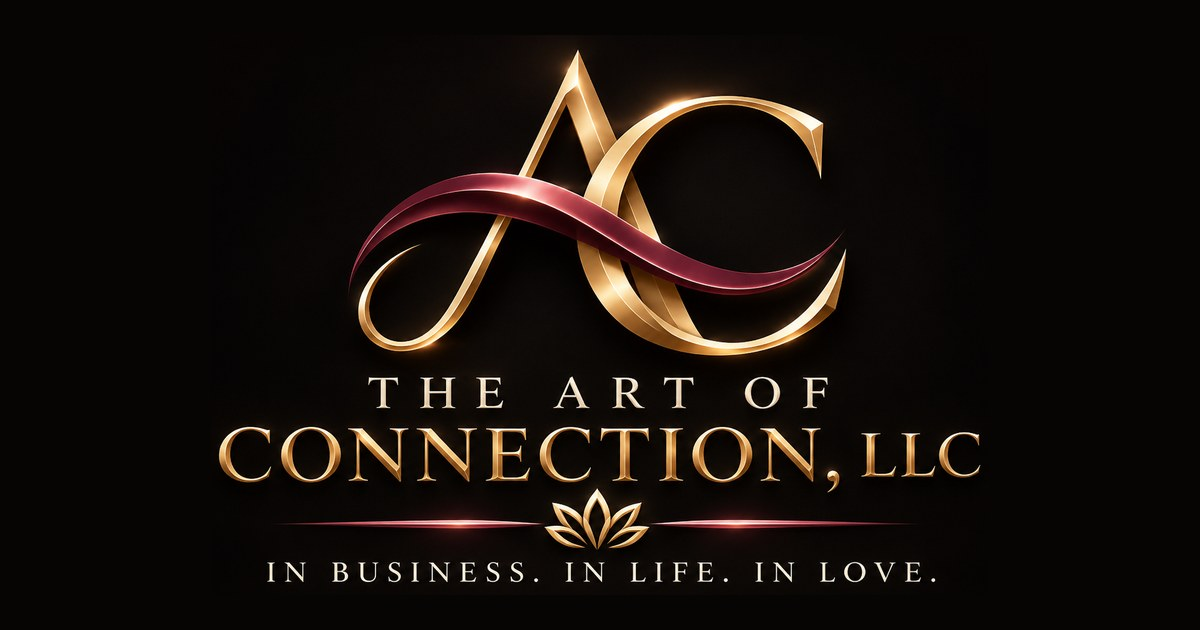
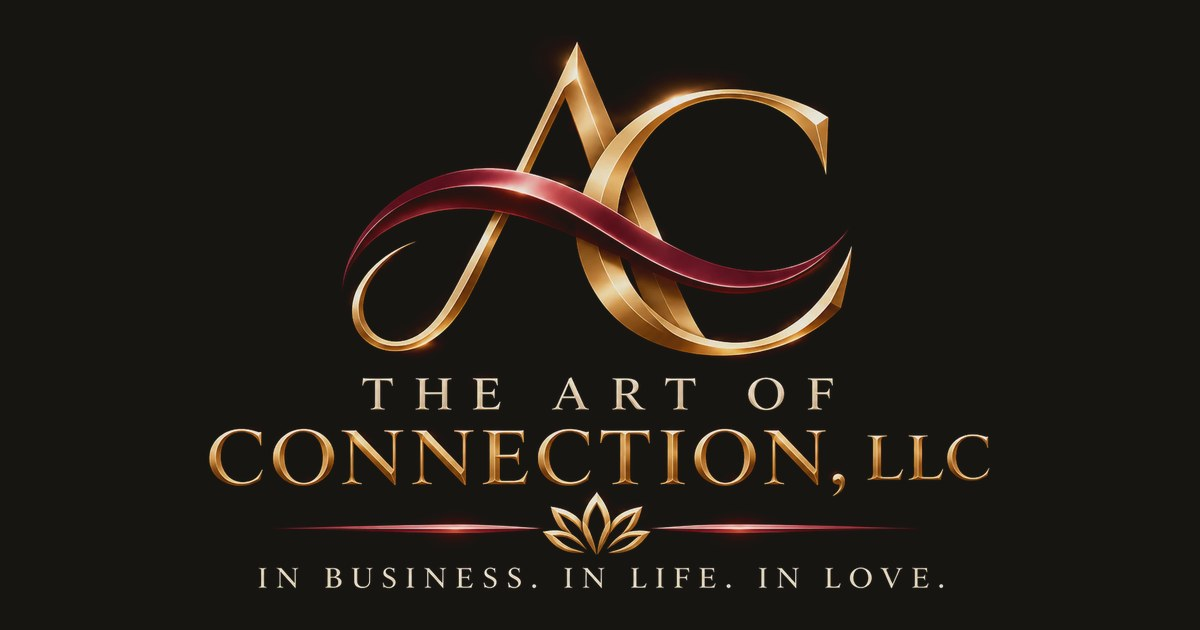
Adopt signature brand palette
Onyx #171512, Champagne Gold #C9AD83, Ivory #F5EFE6, Bronze #725B3D,
Burgundy #743F4D defined once as design tokens and applied site-wide.
Experience accents are tints of the brand colors; green/red kept only as
status indicators. Icons and share image regenerated on Onyx. Adds docs/BRAND.md.

Claude-Session: https://claude.ai/code/session_01PcrZVFZRzqjjvRtsNnLpaT

Changed region(s): [[0.1542, 0.0603, 0.8325, 0.9349]]

diff --git a/src/app/globals.css b/src/app/globals.css
@@ -1,27 +1,46 @@
 @import "tailwindcss";
 
-/* ── The Art of Connect · design tokens ─────────────────────────────
-   Obsidian & champagne. One accent per experience:
-   Relationships = rose, Business = sapphire, Counseling = jade.     */
+/* ── The Art of Connect · signature business colors ──────────────
+   Onyx #171512 · Champagne Gold #C9AD83 · Ivory #F5EFE6
+   Bronze #725B3D · Burgundy #743F4D
+   Experience accents are light tints of the brand colors so they stay
+   readable on Onyx: Relationships = Burgundy, Business = Champagne Gold,
+   Counseling = Ivory.                                                  */
 :root {
-  --ink: #07070b;
-  --ink-2: #0d0d14;
-  --ink-3: #151521;
-  --line: rgb(255 255 255 / 0.08);
-  --line-strong: rgb(255 255 255 / 0.16);
-  --text: #f4f1ea;
-  --text-muted: rgb(244 241 234 / 0.64);
-  --text-faint: rgb(244 241 234 / 0.42);
-  --gold: #d8c29d;
-  --gold-bright: #f0dfbd;
-  --gold-deep: #a88b5c;
-  --wine: #8f2742;
-  --wine-bright: #c4506d;
-  --rose: #e693a5;
-  --sapphire: #8fb0ff;
-  --jade: #8ad1b8;
-  --danger: #ff8a8a;
-  --success: #8ad1b8;
+  /* Brand colors (exact) */
+  --onyx: #171512;
+  --champagne: #c9ad83;
+  --ivory: #f5efe6;
+  --bronze: #725b3d;
+  --burgundy: #743f4d;
+
+  /* Surfaces & text */
+  --ink: var(--onyx);
+  --ink-2: #1e1b17;
+  --ink-3: #27231e;
+  --line: rgb(245 239 230 / 0.09);
+  --line-strong: rgb(245 239 230 / 0.17);
+  --text: var(--ivory);
+  --text-muted: rgb(245 239 230 / 0.68);
+  --text-faint: rgb(245 239 230 / 0.46);
+
+  /* Gold family */
+  --gold: var(--champagne);
+  --gold-bright: #e4d2b4;
+  --gold-deep: var(--bronze);
+
+  /* Burgundy family */
+  --wine: var(--burgundy);
+  --wine-bright: #a5606f;
+
+  /* Experience accents */
+  --relationships: #c98f9d;
+  --business: var(--champagne);
+  --counseling: var(--ivory);
+
+  /* Functional status colors (not brand colors) */
+  --success: #a9c3a0;
+  --danger: #e39494;
   --radius: 22px;
   color-scheme: dark;
 }
@@ -40,9 +59,15 @@
   --color-gold-deep: var(--gold-deep);
   --color-wine: var(--wine);
   --color-wine-bright: var(--wine-bright);
-  --color-rose: var(--rose);
-  --color-sapphire: var(--sapphire);
-  --color-jade: var(--jade);
+  --color-onyx: var(--onyx);
+  --color-champagne: var(--champagne);
+  --color-ivory: var(--ivory);
+  --color-bronze: var(--bronze);
+  --color-burgundy: var(--burgundy);
+  --color-relationships: var(--relationships);
+  --color-business: var(--business);
+  --color-counseling: var(--counseling);
+  --color-success: var(--success);
   --color-danger: var(--danger);
   --font-display: "Cormorant Garamond Variable", "Cormorant Garamond", ui-serif, Georgia, serif;
   --font-sans: "Manrope Variable", "Manrope", ui-sans-serif, system-ui, sans-serif;
@@ -64,7 +89,7 @@ body {
   overflow-x: hidden;
 }
 
-::selection { background: rgb(216 194 157 / 0.32); color: var(--text); }
+::selection { background: rgb(201 173 131 / 0.32); color: var(--text); }
 
 :focus-visible { outline: 2px solid var(--gold); outline-offset: 3px; border-radius: 6px; }
 
@@ -104,7 +129,7 @@ body {
   inset: 0;
   border-radius: inherit;
   padding: 1px;
-  background: linear-gradient(140deg, rgb(240 223 189 / 0.5), transparent 35%, transparent 65%, rgb(240 223 189 / 0.22));
+  background: linear-gradient(140deg, rgb(228 210 180 / 0.5), transparent 35%, transparent 65%, rgb(228 210 180 / 0.22));
   -webkit-mask: linear-gradient(#000 0 0) content-box, linear-gradient(#000 0 0);
   -webkit-mask-composite: xor;
   mask-composite: exclude;
@@ -112,7 +137,7 @@ body {
 }
 
 /* Burgundy light-line from the logo */
-.ribbon-line { background: linear-gradient(90deg, transparent, var(--wine) 40%, var(--wine-bright) 85%, rgb(255 190 200 / 0.9)); box-shadow: 0 0 12px rgb(196 80 109 / 0.5); }
+.ribbon-line { background: linear-gradient(90deg, transparent, var(--wine) 40%, var(--wine-bright) 85%, rgb(228 190 198 / 0.9)); box-shadow: 0 0 12px rgb(165 96 111 / 0.5); }
 
 .hairline { height: 1px; background: linear-gradient(90deg, transparent, var(--line-strong), transparent); }
 
@@ -124,10 +149,10 @@ body {
   z-index: -1;
   pointer-events: none;
   background:
-    radial-gradient(40% 35% at 18% 18%, rgb(143 39 66 / 0.22), transparent 70%),
-    radial-gradient(38% 34% at 82% 12%, rgb(143 176 255 / 0.14), transparent 70%),
-    radial-gradient(45% 40% at 55% 62%, rgb(138 209 184 / 0.09), transparent 72%),
-    radial-gradient(60% 50% at 50% 0%, rgb(216 194 157 / 0.08), transparent 70%);
+    radial-gradient(40% 35% at 18% 18%, rgb(116 63 77 / 0.34), transparent 70%),
+    radial-gradient(38% 34% at 82% 12%, rgb(114 91 61 / 0.30), transparent 70%),
+    radial-gradient(45% 40% at 55% 62%, rgb(116 63 77 / 0.14), transparent 72%),
+    radial-gradient(60% 50% at 50% 0%, rgb(201 173 131 / 0.08), transparent 70%);
   filter: blur(10px);
   animation: drift 26s ease-in-out infinite alternate;
 }
@@ -157,13 +182,13 @@ body {
 }
 .btn:active { transform: scale(0.98); }
 .btn-gold {
-  color: #1a140a;
+  color: var(--onyx);
   background: linear-gradient(120deg, var(--gold-bright), var(--gold) 55%, var(--gold-deep));
-  box-shadow: 0 10px 40px -12px rgb(216 194 157 / 0.55), inset 0 1px 0 rgb(255 255 255 / 0.5);
+  box-shadow: 0 10px 40px -12px rgb(201 173 131 / 0.55), inset 0 1px 0 rgb(255 255 255 / 0.5);
 }
-.btn-gold:hover { box-shadow: 0 14px 50px -10px rgb(216 194 157 / 0.75), inset 0 1px 0 rgb(255 255 255 / 0.6); transform: translateY(-1px); }
+.btn-gold:hover { box-shadow: 0 14px 50px -10px rgb(201 173 131 / 0.75), inset 0 1px 0 rgb(255 255 255 / 0.6); transform: translateY(-1px); }
 .btn-ghost { color: var(--text); border: 1px solid var(--line-strong); background: rgb(255 255 255 / 0.03); }
-.btn-ghost:hover { border-color: rgb(216 194 157 / 0.5); background: rgb(255 255 255 / 0.06); }
+.btn-ghost:hover { border-color: rgb(201 173 131 / 0.5); background: rgb(255 255 255 / 0.06); }
 .btn-sm { min-height: 38px; padding: 0 1rem; font-size: 0.78rem; }
 .btn[disabled] { opacity: 0.45; pointer-events: none; }
 
@@ -196,9 +221,9 @@ select.field { appearance: none; }
   border: 1px solid var(--line-strong);
   color: var(--text-muted);
 }
-.chip-live { color: var(--success); border-color: rgb(138 209 184 / 0.4); }
-.chip-locked { color: var(--gold); border-color: rgb(216 194 157 / 0.35); }
-.chip-danger { color: var(--danger); border-color: rgb(255 138 138 / 0.35); }
+.chip-live { color: var(--success); border-color: rgb(169 195 160 / 0.4); }
+.chip-locked { color: var(--gold); border-color: rgb(201 173 131 / 0.35); }
+.chip-danger { color: var(--danger); border-color: rgb(227 148 148 / 0.35); }
 
 /* ── Tables (owner portal) ──────────────────────────────────────── */
 .data-table { width: 100%; border-collapse: collapse; font-size: 0.85rem; }

diff --git a/src/components/Constellation.tsx b/src/components/Constellation.tsx
@@ -14,20 +14,20 @@ export function Constellation({ className = "" }: { className?: string }) {
   return (
     <svg viewBox="0 0 600 600" className={className} fill="none" aria-hidden="true">
       <defs>
-        <linearGradient id="o-rose" x1="0" x2="1"><stop stopColor="#c4506d" stopOpacity="0.05" /><stop offset="0.5" stopColor="#c4506d" stopOpacity="0.9" /><stop offset="1" stopColor="#c4506d" stopOpacity="0.05" /></linearGradient>
-        <linearGradient id="o-sapphire" x1="0" x2="1"><stop stopColor="#8fb0ff" stopOpacity="0.05" /><stop offset="0.5" stopColor="#8fb0ff" stopOpacity="0.9" /><stop offset="1" stopColor="#8fb0ff" stopOpacity="0.05" /></linearGradient>
-        <linearGradient id="o-jade" x1="0" x2="1"><stop stopColor="#8ad1b8" stopOpacity="0.05" /><stop offset="0.5" stopColor="#8ad1b8" stopOpacity="0.9" /><stop offset="1" stopColor="#8ad1b8" stopOpacity="0.05" /></linearGradient>
-        <radialGradient id="core"><stop stopColor="#f0dfbd" /><stop offset="0.35" stopColor="#d8c29d" stopOpacity="0.5" /><stop offset="1" stopColor="#d8c29d" stopOpacity="0" /></radialGradient>
+        <linearGradient id="o-rel" x1="0" x2="1"><stop stopColor="#c98f9d" stopOpacity="0.05" /><stop offset="0.5" stopColor="#c98f9d" stopOpacity="0.9" /><stop offset="1" stopColor="#c98f9d" stopOpacity="0.05" /></linearGradient>
+        <linearGradient id="o-biz" x1="0" x2="1"><stop stopColor="#c9ad83" stopOpacity="0.05" /><stop offset="0.5" stopColor="#c9ad83" stopOpacity="0.9" /><stop offset="1" stopColor="#c9ad83" stopOpacity="0.05" /></linearGradient>
+        <linearGradient id="o-couns" x1="0" x2="1"><stop stopColor="#f5efe6" stopOpacity="0.05" /><stop offset="0.5" stopColor="#f5efe6" stopOpacity="0.9" /><stop offset="1" stopColor="#f5efe6" stopOpacity="0.05" /></linearGradient>
+        <radialGradient id="core"><stop stopColor="#e4d2b4" /><stop offset="0.35" stopColor="#c9ad83" stopOpacity="0.5" /><stop offset="1" stopColor="#c9ad83" stopOpacity="0" /></radialGradient>
       </defs>
       <circle cx="300" cy="300" r="280" stroke="rgb(255 255 255 / 0.05)" />
       <circle cx="300" cy="300" r="190" stroke="rgb(255 255 255 / 0.04)" strokeDasharray="2 8" className="spin-slower" style={{ transformOrigin: "300px 300px" }} />
       <g className="spin-slow" style={{ transformOrigin: "300px 300px" }}>
-        {orbit(0, "#c4506d", "o-rose")}
-        {orbit(60, "#8fb0ff", "o-sapphire")}
-        {orbit(120, "#8ad1b8", "o-jade")}
+        {orbit(0, "#c98f9d", "o-rel")}
+        {orbit(60, "#c9ad83", "o-biz")}
+        {orbit(120, "#f5efe6", "o-couns")}
       </g>
       <circle cx="300" cy="300" r="70" fill="url(#core)" opacity="0.55" />
-      <circle cx="300" cy="300" r="6" fill="#f0dfbd" />
+      <circle cx="300" cy="300" r="6" fill="#e4d2b4" />
     </svg>
   );
 }

diff --git a/src/app/(site)/page.tsx b/src/app/(site)/page.tsx
@@ -42,12 +42,12 @@ export default function HomePage() {
           <Constellation className="w-full opacity-45" />
           <div className="absolute inset-0 flex items-center justify-center">
             <div className="absolute h-1/2 w-1/2 rounded-full bg-gold/10 blur-3xl" />
-            <Monogram height={250} priority className="relative h-auto w-[72%] drop-shadow-[0_10px_40px_rgba(216,194,157,0.25)]" />
+            <Monogram height={250} priority className="relative h-auto w-[72%] drop-shadow-[0_10px_40px_rgba(201,173,131,0.25)]" />
           </div>
           <div className="pointer-events-none absolute inset-x-0 bottom-4 flex justify-center gap-5 text-[0.65rem] tracking-[0.25em] uppercase text-faint">
-            <span className="text-sapphire">Business</span>
-            <span className="text-jade">Life</span>
-            <span className="text-rose">Love</span>
+            <span className="text-business">Business</span>
+            <span className="text-counseling">Life</span>
+            <span className="text-relationships">Love</span>
           </div>
         </div>
       </section>
@@ -100,7 +100,7 @@ export default function HomePage() {
           <div>
             <p className="eyebrow">Private by design</p>
             <h2 className="display mt-5 text-4xl sm:text-5xl">
-              Your counseling life <span className="italic text-jade">stays yours.</span>
+              Your counseling life <span className="italic gilded">stays yours.</span>
             </h2>
             <p className="mt-6 leading-relaxed text-muted">
               Counseling lives in its own sealed space. It never touches your dating or business profiles, your matches

diff --git a/src/lib/experiences.ts b/src/lib/experiences.ts
@@ -9,7 +9,7 @@ export const EXPERIENCES: Record<
     name: "Relationships",
     eyebrow: "I · Intentional love",
     tagline: "Connection designed with intention — from first conversation to lasting partnership.",
-    accent: "var(--rose)",
+    accent: "var(--relationships)",
     href: "/relationships",
     pillars: ["Compatibility assessments", "Intentional dating", "Relationship development", "Couples’ growth studio"],
   },
@@ -17,7 +17,7 @@ export const EXPERIENCES: Record<
     name: "Business",
     eyebrow: "II · Purposeful ambition",
     tagline: "A private network where founders, leaders and makers find the partners they’ve been looking for.",
-    accent: "var(--sapphire)",
+    accent: "var(--business)",
     href: "/business",
     pillars: ["Business compatibility", "Partnerships & collaboration", "Curated referrals", "Entrepreneurial circles"],
   },
@@ -25,7 +25,7 @@ export const EXPERIENCES: Record<
     name: "Counseling",
     eyebrow: "III · Guided growth",
     tagline: "Verified counselors, private by design. Your counseling life stays yours alone.",
-    accent: "var(--jade)",
+    accent: "var(--counseling)",
     href: "/counseling",
     pillars: ["Credential-verified providers", "Confidential client identity", "Seamless scheduling", "Provider memberships"],
   },

diff --git a/src/app/(site)/counseling/page.tsx b/src/app/(site)/counseling/page.tsx
@@ -7,7 +7,7 @@ export default function CounselingPage() {
   return (
     <ExperiencePage
       experience="counseling"
-      headline={<>Guidance, <span className="italic text-jade">in confidence.</span></>}
+      headline={<>Guidance, <span className="italic text-counseling">in confidence.</span></>}
       intro="Find a credential-verified counselor for yourself, your relationship or your leadership. Counseling is sealed off from every other part of the platform — your privacy is the foundation, not a feature."
       features={[
         { title: "Verified counselors", body: "Every provider’s license, credentials and standing are reviewed by our team before they can be listed." },
@@ -31,7 +31,7 @@ export default function CounselingPage() {
           <ul className="space-y-4 self-center text-sm text-muted">
             {["Submit your license and credentials securely", "Our team verifies your standing", "Select a provider membership", "Publish your profile and set availability"].map((s, i) => (
               <li key={s} className="flex gap-4">
-                <span className="display text-2xl text-jade">{i + 1}</span>
+                <span className="display text-2xl text-counseling">{i + 1}</span>
                 <span className="pt-1.5">{s}</span>
               </li>
             ))}

diff --git a/src/app/admin/analytics/page.tsx b/src/app/admin/analytics/page.tsx
@@ -27,9 +27,9 @@ export default async function AnalyticsPage() {
       <PageHeader eyebrow="Command" title="Platform analytics" />
       <div className="grid grid-cols-2 gap-4 lg:grid-cols-4">
         <Stat label="Members" value={members} hint={`${new30} new in 30 days`} />
-        <Stat label="Relationships access" value={rel} accent="var(--rose)" />
-        <Stat label="Business access" value={biz} accent="var(--sapphire)" />
-        <Stat label="Counseling access" value={couns} accent="var(--jade)" hint="Count only — no client details" />
+        <Stat label="Relationships access" value={rel} accent="var(--relationships)" />
+        <Stat label="Business access" value={biz} accent="var(--business)" />
+        <Stat label="Counseling access" value={couns} accent="var(--counseling)" hint="Count only — no client details" />
       </div>
       <div className="mt-6 grid gap-6 lg:grid-cols-2">
         <Panel title="Waitlist demand">

diff --git a/src/app/admin/page.tsx b/src/app/admin/page.tsx
@@ -48,9 +48,9 @@ export default async function AdminOverview() {
       <PageHeader eyebrow="Command" title={`Good day${viewer.displayName ? ", " + viewer.displayName : ""}.`} />
       <div className="grid grid-cols-2 gap-4 lg:grid-cols-4">
         <Stat label="Members" value={members} />
-        <Stat label="Active memberships" value={active} accent="var(--jade)" />
+        <Stat label="Active memberships" value={active} accent="var(--success)" />
         <Stat label="Monthly recurring" value={money(mrr)} accent="var(--gold-bright)" />
-        <Stat label="Waitlist" value={waitlist} accent="var(--rose)" />
+        <Stat label="Waitlist" value={waitlist} accent="var(--relationships)" />
       </div>
       <div className="mt-6 grid gap-6 lg:grid-cols-[1fr_1.2fr]">
         <Panel title="Launch status" action={viewer.roles.includes("owner") ? <Link href="/admin/settings" className="text-xs text-gold">Manage →</Link> : null}>

diff --git a/src/app/(site)/relationships/page.tsx b/src/app/(site)/relationships/page.tsx
@@ -7,7 +7,7 @@ export default function RelationshipsPage() {
   return (
     <ExperiencePage
       experience="relationships"
-      headline={<>Love, <span className="italic text-rose">with intention.</span></>}
+      headline={<>Love, <span className="italic text-relationships">with intention.</span></>}
       intro="For people who are done with endless swiping. Deep compatibility, curated introductions, and tools that help a promising beginning become a lasting partnership."
       features={[
         { title: "Compatibility assessments", body: "Science-informed assessments of values, attachment, communication and life vision — so introductions begin with real alignment." },

diff --git a/src/app/(site)/business/page.tsx b/src/app/(site)/business/page.tsx
@@ -7,7 +7,7 @@ export default function BusinessPage() {
   return (
     <ExperiencePage
       experience="business"
-      headline={<>Where ambition <span className="italic text-sapphire">finds its match.</span></>}
+      headline={<>Where ambition <span className="italic text-business">finds its match.</span></>}
       intro="A private network for founders, executives, professionals and creators. Find partners, clients, collaborators and mentors through compatibility — not cold outreach."
       features={[
         { title: "Business compatibility", body: "Match on goals, stage, working style and what you’re seeking or offering — partnerships begin with fit." },

diff --git a/src/app/admin/settings/page.tsx b/src/app/admin/settings/page.tsx
@@ -26,7 +26,7 @@ export default async function SettingsPage() {
   return (
     <>
       <PageHeader eyebrow="Platform" title="Launch controls" />
-      <div className={`mb-6 rounded-2xl border px-5 py-4 text-sm ${env.launchLocked ? "border-gold/30 bg-gold/5 text-gold" : "border-jade/30 bg-jade/5 text-jade"}`}>
+      <div className={`mb-6 rounded-2xl border px-5 py-4 text-sm ${env.launchLocked ? "border-gold/30 bg-gold/5 text-gold" : "border-success/30 bg-success/5 text-success"}`}>
         {env.launchLocked ? (
           <>
             <strong>Master launch lock is ON.</strong> Nothing below can open to the public until LAUNCH_LOCK is set to

diff --git a/src/components/WaitlistForm.tsx b/src/components/WaitlistForm.tsx
@@ -3,9 +3,9 @@ import { useActionState } from "react";
 import { joinWaitlist, type WaitlistState } from "@/app/actions/waitlist";
 
 const options = [
-  { value: "relationships", label: "Relationships", color: "var(--rose)" },
-  { value: "business", label: "Business", color: "var(--sapphire)" },
-  { value: "counseling", label: "Counseling", color: "var(--jade)" },
+  { value: "relationships", label: "Relationships", color: "var(--relationships)" },
+  { value: "business", label: "Business", color: "var(--business)" },
+  { value: "counseling", label: "Counseling", color: "var(--counseling)" },
 ];
 
 export function WaitlistForm() {

diff --git a/src/app/(member)/app/counseling/page.tsx b/src/app/(member)/app/counseling/page.tsx
@@ -5,7 +5,7 @@ export default async function Page() {
   const { preview } = await requireExperience("counseling");
   return (
     <ExperienceShell experience="counseling" preview={preview}>
-      <div className="md:col-span-2 rounded-2xl border border-jade/30 bg-jade/5 p-5 text-sm text-jade">
+      <div className="md:col-span-2 rounded-2xl border border-counseling/30 bg-counseling/5 p-5 text-sm text-counseling">
         Confidential space. Your counseling identity is separate from your other profiles, and session notes are visible
         only to your counselor.
       </div>
